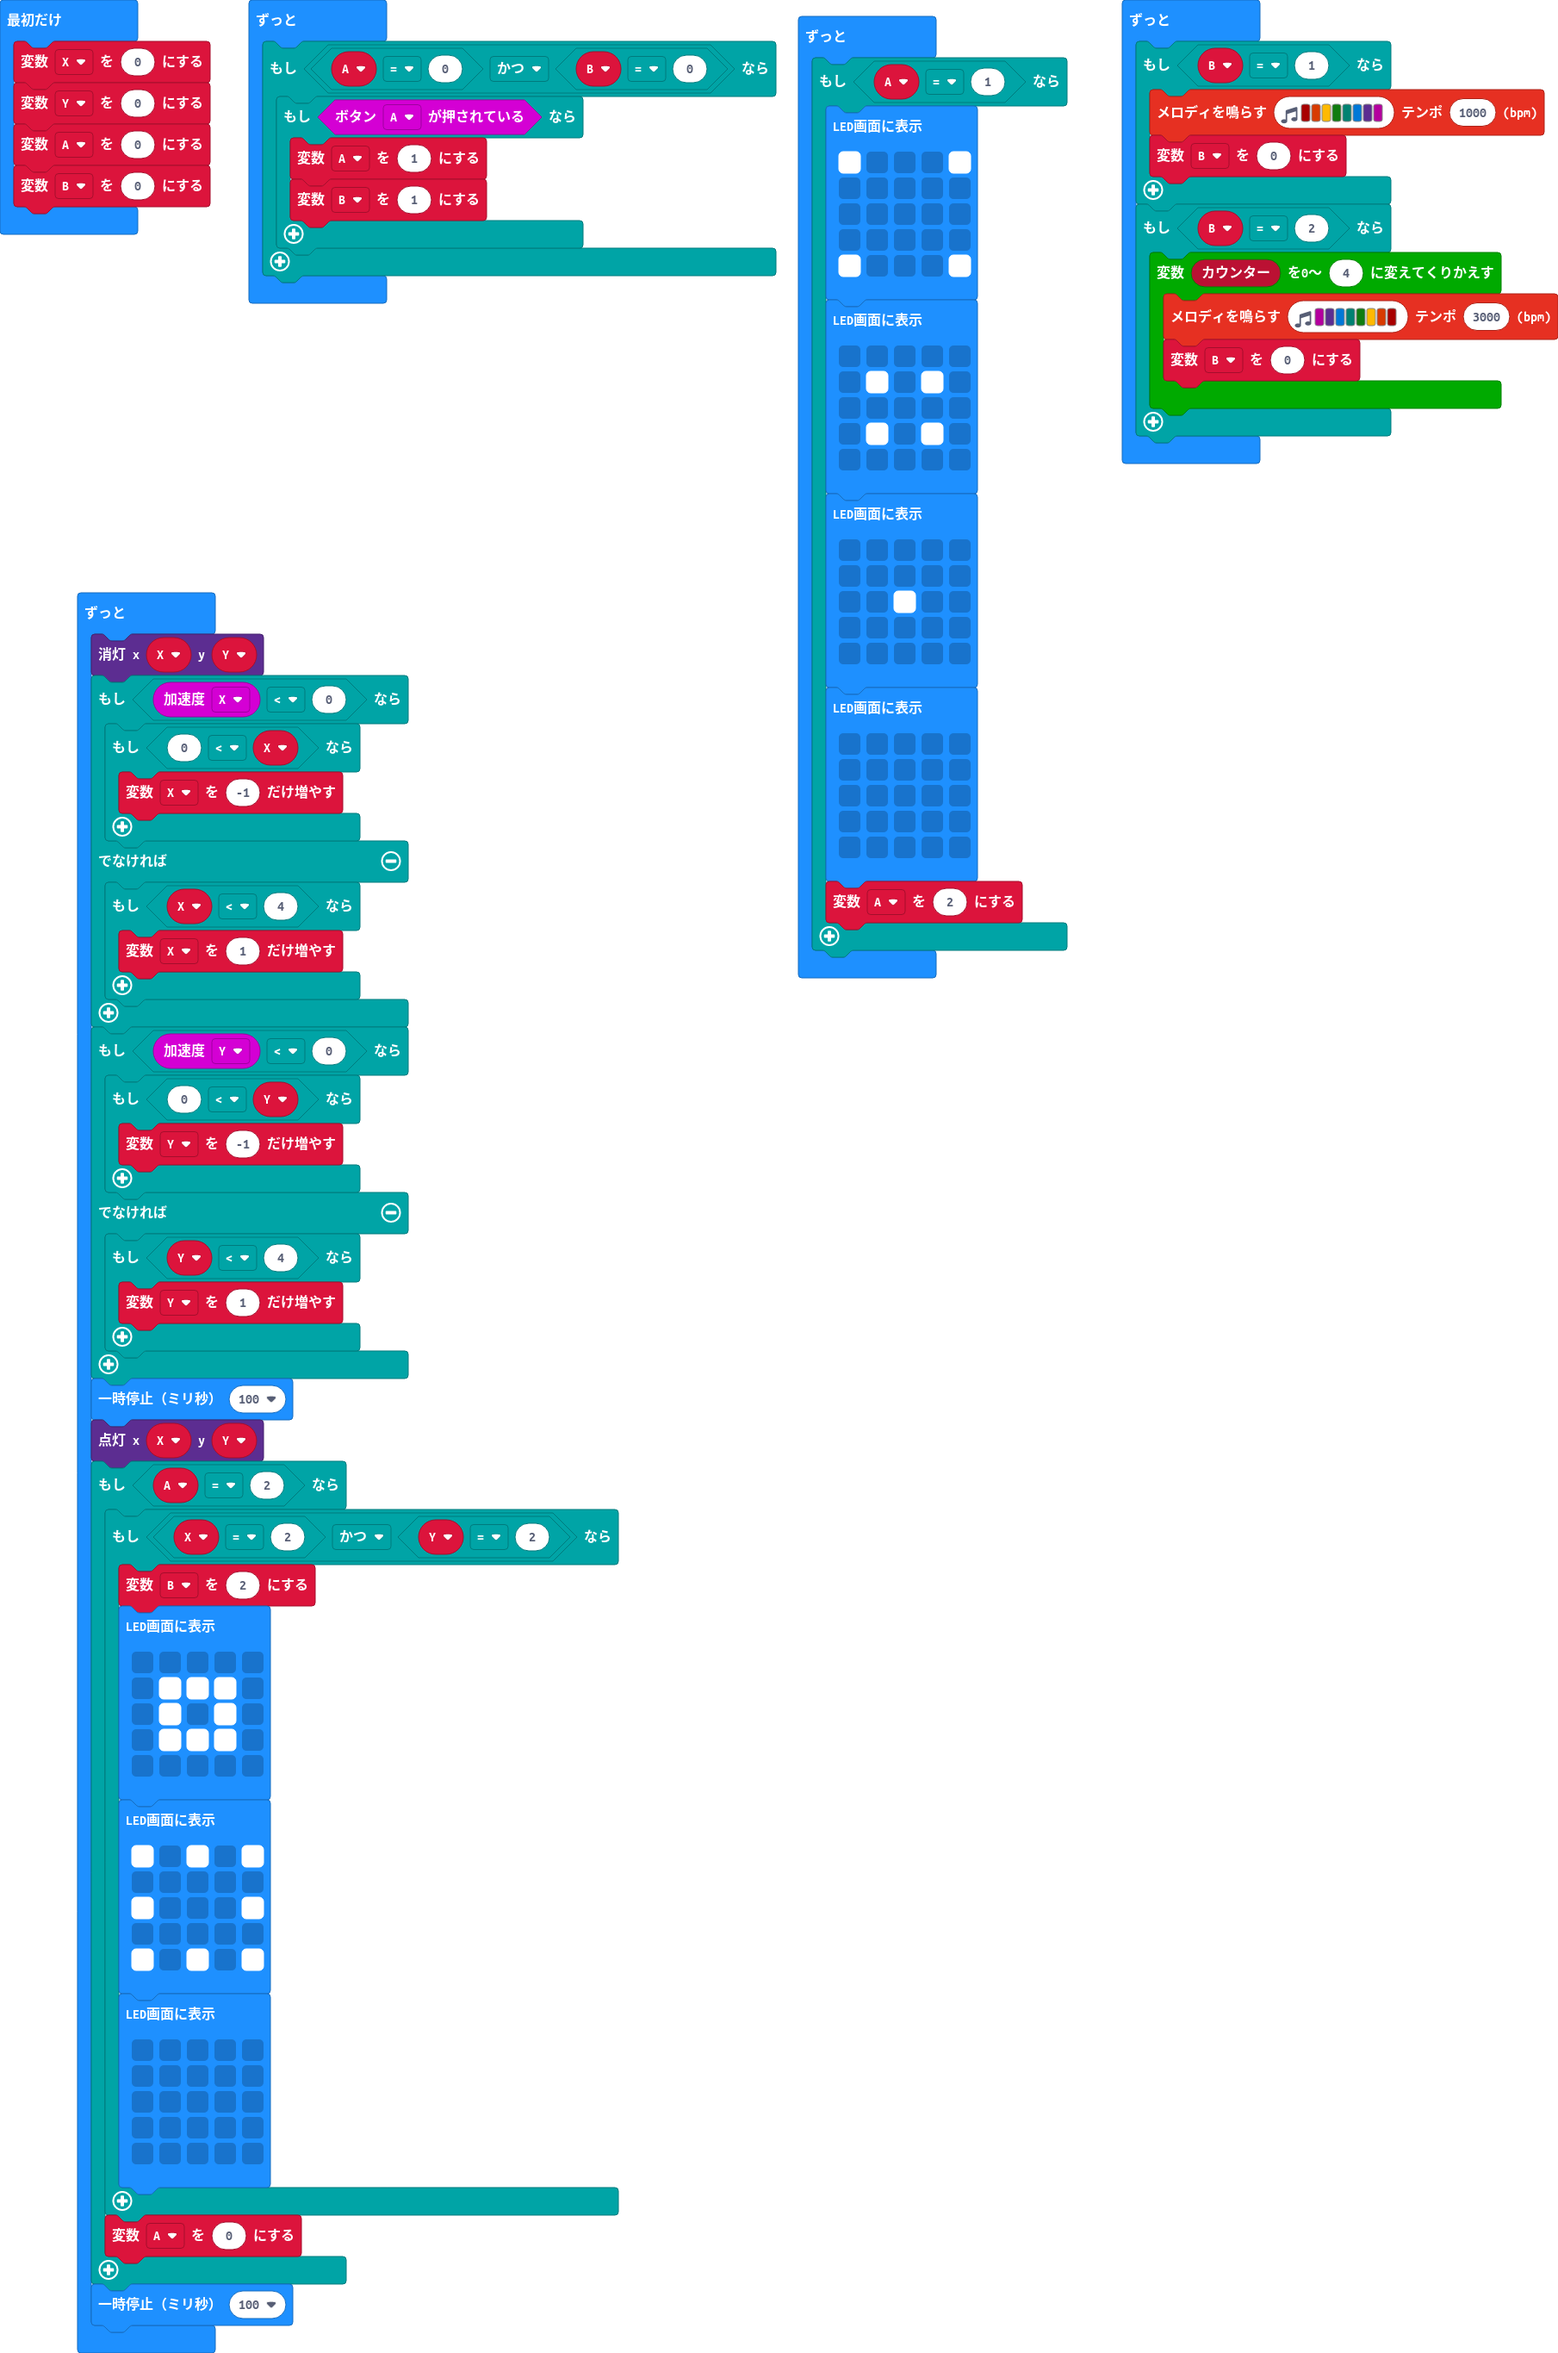
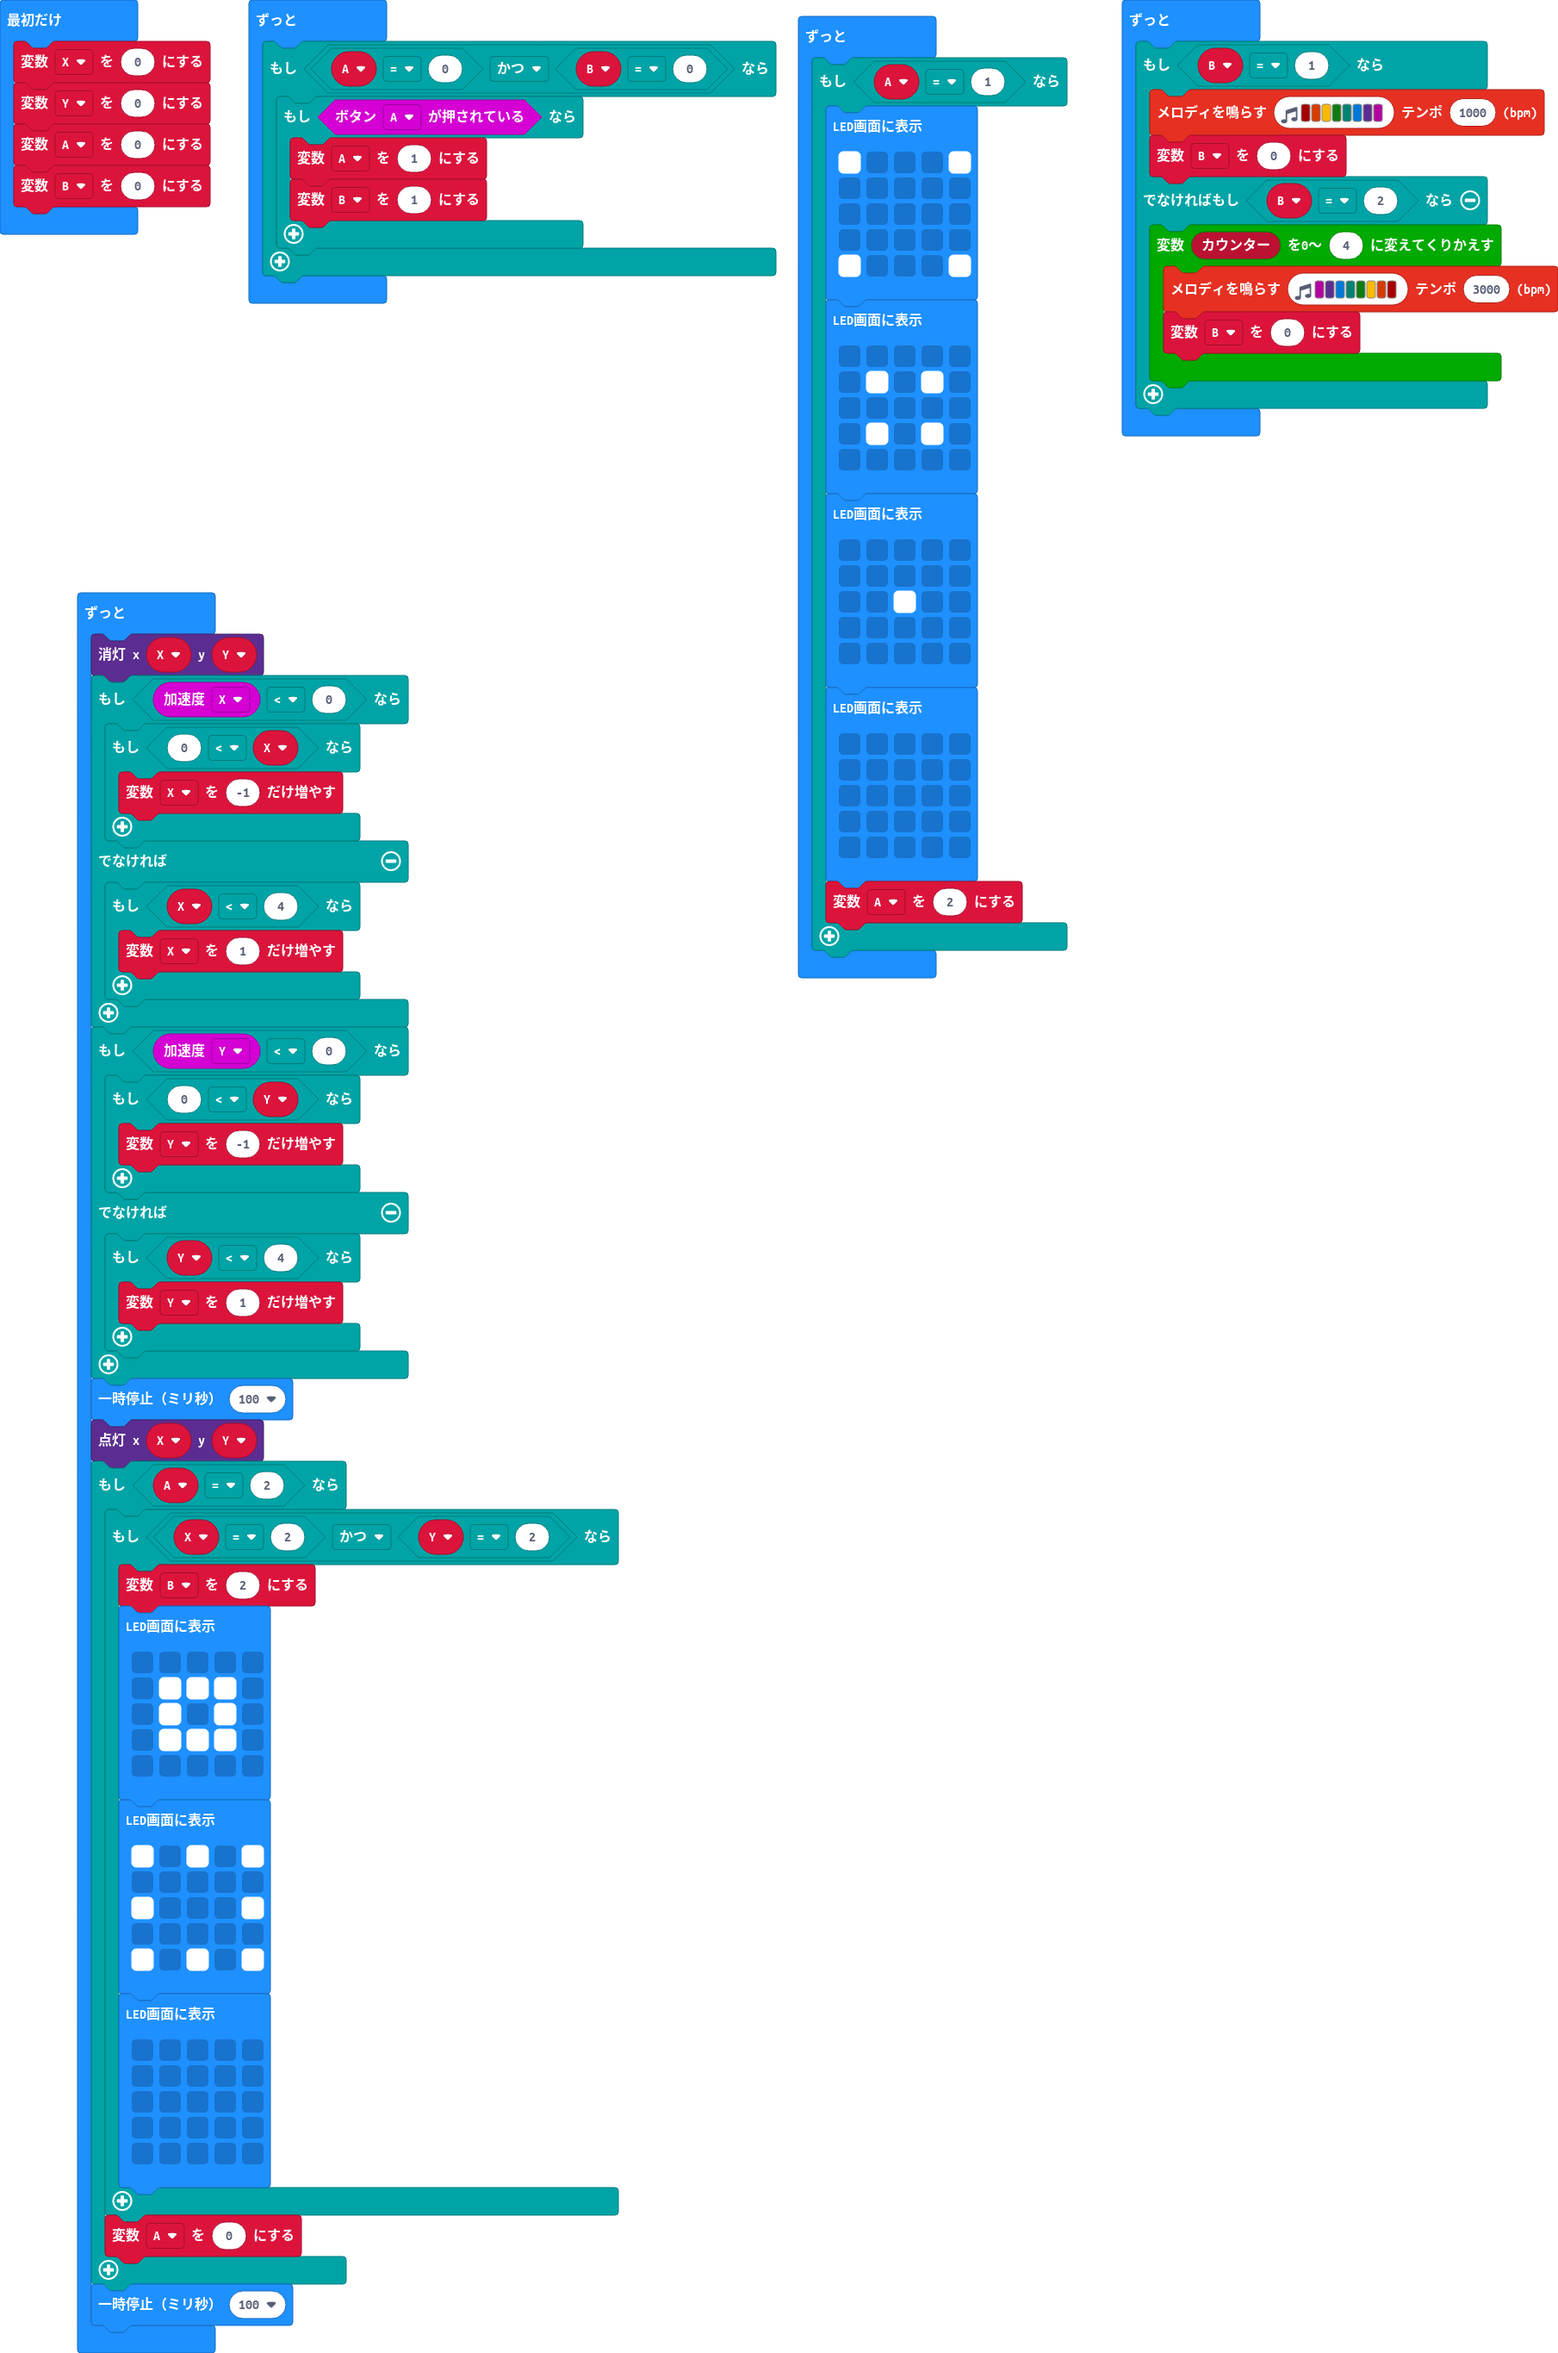
更新 main.blocks, main.ts

Changed region(s): [[0.712, 0.0, 1.0, 0.2179]]

diff --git a/main.ts b/main.ts
@@ -47,8 +47,7 @@ basic.forever(function () {
     if (B == 1) {
         music.playMelody("C5 B A G F E D C ", 1000)
         B = 0
-    }
-    if (B == 2) {
+    } else if (B == 2) {
         for (let カウンター = 0; カウンター <= 4; カウンター++) {
             music.playMelody("C D E F G A B C5 ", 3000)
             B = 0
